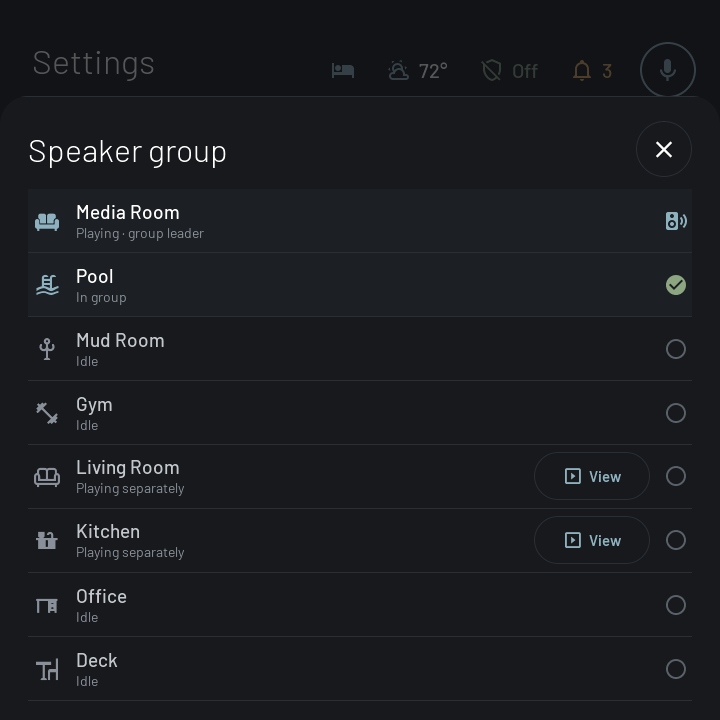
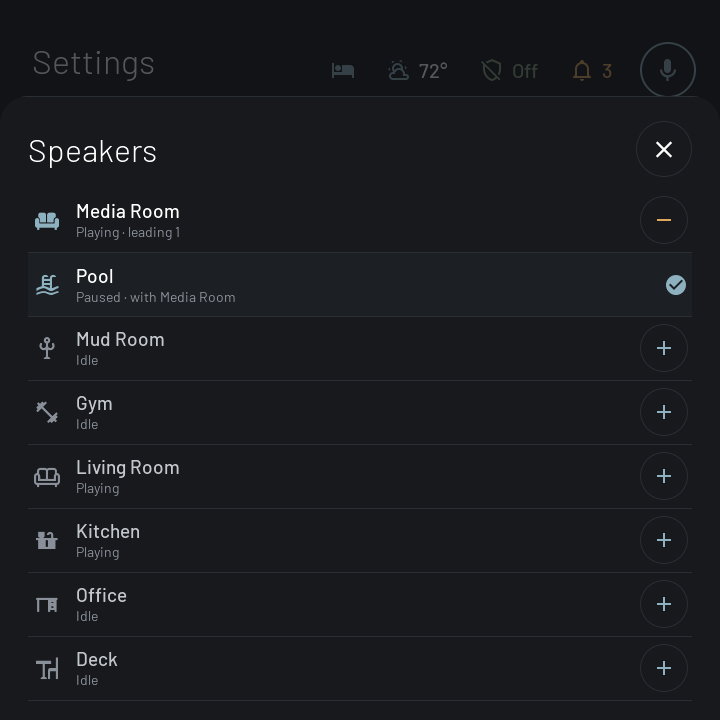
Music: pick the speaker the page controls; idle return to a default view
The Music page chose its player every refresh (focused speaker if playing,
else the first playing speaker, else Media Room), so pausing the pool
snapped the page to Media Room with no way back. The speaker chip under
the title now opens the Speakers sheet, where tapping a row makes that
speaker the one the page controls; the choice sticks through pause and
stop until another is picked, it leaves the list, or the idle return
clears it. Each row shows Playing / Paused / Idle with its group
relationship, and a + / - button joins it to or removes it from the
controlled speaker's group, so a pool session can be started and grouped
while the media room TV is left alone.

After the "Return to default" time (new Panel & Voice setting, 30-600 s,
default 120 s, exposed to HA) with no touch, the panel closes sheets,
the Off Grid confirm and a finished voice overlay, forgets a manual
speaker pick, and goes to the page the house state calls for: alarm
pending/triggered -> Alarm, grid outage -> Energy, a basement speaker
playing -> Music, otherwise Home. Only the idle timer and the existing
urgent transitions move the page on their own; a voice session in
progress defers the return until it ends.

The headless walk covers the pool-paused pick, the reworked Speakers
sheet, and the idle return firing from an open sheet.

Claude-Session: https://claude.ai/code/session_019FdN7WrQxwL4NkvPtacvRy

diff --git a/esphome/basement-wall-panel/README.md b/esphome/basement-wall-panel/README.md
@@ -115,7 +115,9 @@ it as a live control surface, not a mock.
 | Scenes: tap a row | `scene.turn_on`; row lights up 1.6 s, then follows `binary_sensor.scene_*` |
 | Shades: ▲ ■ ▼ | `cover.*` on `cover.first_floor_all`, or all six covers at once for Whole House; Media Room is disabled |
 | Shades: ADAPTIVE / MANUAL badge | follows the `input_boolean.shades_manual_*` helpers (Whole House is MANUAL if any group is); switch them in the Shades sheet |
-| Music: transport, volume | on the focused group; library / speaker group / per-speaker volume sheets |
+| Music: speaker chip (name + ⌄ under the title) | Speakers sheet: tap a row to make that speaker the one the page controls; it sticks through pause and stop until you pick another, it drops off the list, or the idle return clears it. With no pick the page follows Media Room, then whatever is playing |
+| Music: Speakers sheet + / − | joins a speaker to, or removes it from, the controlled speaker's group; the controlled speaker leads |
+| Music: transport, volume | on the controlled speaker's group; library / speaker / per-speaker volume sheets |
 | Music: album art | fetched from the playing entity's `entity_picture` (through HA's media proxy) as JPEG, retried as PNG if it isn't one; the disc icon shows when there is none |
 | Pool: − / + | `water_heater.set_temperature` 70–90 on the OmniLogic heater; pill toggles the heater |
 | Pool: pump toggle, slider, Low / Med / High | `switch`, `number` and the three OmniLogic speed buttons |
@@ -129,6 +131,26 @@ Developer Tools → States: set `alarm_control_panel.alarmo` to `triggered` or
 `pending`, `binary_sensor.bayberry_grid_status` to `off` (outage layout plus the
 red pill), `input_boolean.away_mode` to `on` (Vacation pill) or
 `input_boolean.cleaners_mode` to `on` (lock screen).
+
+### Idle return
+
+After the "Return to default" time in Panel & Voice (30–600 s, default 2 min,
+also exposed to HA as a number) with no touch, the panel closes any sheet, the
+Off Grid confirm and a finished voice overlay, forgets a manual speaker pick,
+and goes to the page the house state calls for, highest priority first:
+
+1. Alarm `pending` or `triggered` → **Alarm**
+2. Grid outage → **Energy**
+3. A basement speaker playing (`idle_music_players` in `common.yaml`: Media
+   Room, Pool, Gym, Mud Room) → **Music**
+4. Otherwise → **Home**
+
+Only the idle timer and the existing urgent transitions (alarm becoming
+pending/triggered, grid dropping) move the page by themselves; music starting
+somewhere never interrupts what someone is doing, it just changes where the
+panel goes when they walk away. When a higher condition clears the panel waits
+for the next idle tick rather than jumping. You can always navigate anywhere;
+every touch restarts the clock.
 
 ### What the simulator can't do
 
